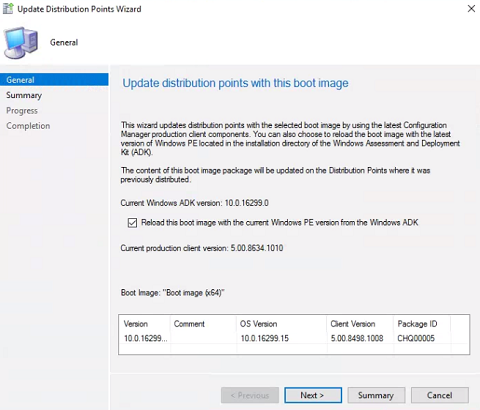
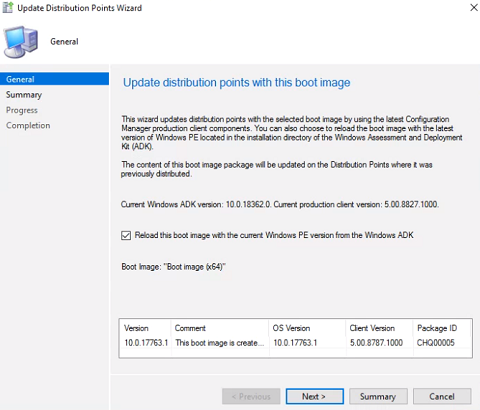
Updated blog through boot images section

diff --git a/_posts/2018-06-05-you-down-with-osd.md b/_posts/2018-06-05-you-down-with-osd.md
@@ -14,7 +14,7 @@ In this post we'll do a minimalistic configuration of OSD over PXE.  This means 
 [Windows and Office Deployment Lab Kit](https://www.microsoft.com/en-us/evalcenter/evaluate-lab-kit) does a couple convenient configurations if we're using the Current Branch lab we configured in the [previous post](https://doug.seiler.us/2018-05-30-set-up-the-sccm-lab/).  If we're using the [tech preview lab](https://doug.seiler.us/2019-05-27-tech-preview-lab-kit/) we will need to do some additional set up.
 
 ### The Requirements
-1. A Windows 10 Enterprise ISO.
+1. A Windows 10 Enterprise 64-bit ISO.
 
 2. The latest [Windows Assessment and Deployment Kit](https://docs.microsoft.com/en-us/windows-hardware/get-started/adk-install) and the Windows PE add-on for the ADK.
 
@@ -114,7 +114,9 @@ In SCCM, distribution points are where workstations get their content.  This is 
 
 	![dp_general_tab.png](/img/300/dp_general_tab.png)
 5. **PXE tab** - To automatically install WDS and configure PXE, check _Enable PXE support for clients_ and click _Yes_ when the _Review Required Ports for PXE_ warning dialog pops up.  
+	
 	Additionally check _Allow this distribution point to respond to incoming PXE requests_ **AND** _Enable unknown computer support_, click _OK_ when the _Configuration Manager_ dialog box pops up.  
+	
 	Uncheck _Require a password when computers use PXE_.  Click _OK_.
 
 	![dp_pxe_tab.png](/img/300/dp_pxe_tab.png)
@@ -129,64 +131,75 @@ We'll use [Odd-Magne's script](https://sccmguru.wordpress.com/2012/10/25/configu
 
 	<script src="https://gist.github.com/dugmo/150e1015ed989286b5a4480a5e3ba87b.js"></script>
 
+	![package_source_script.png](/img/300/package_source_script.png)
+
+
 ### The Operating System Image
 We need an operating system image as the basis of OSD.  There are several guides on creating a fully patched reference image, but we're just going to use the WIM file off of the ISO for now and revisit reference images in a later tutorial.
-1. On the host system, mount the Windows 10 Enterprise (or Pro) ISO.  If your host system is Windows 10 you can just double click the ISO.
+1. On the host system, mount the Windows 10 Enterprise ISO.  If your host system is Windows 10 you can just double click the ISO.
 
-2. Navigate to the sources folder, right-click _install.wim_ and select _copy_.
+2. Right-click the drive letter of the mounted ISO, and select _Properties_.
+
+	![mounted_iso_properties.png](/img/300/mounted_iso_properties.png)
+3. **Sharing tab** - Click _Advanced Sharing_.  Check _Share this folder_ and note the _Share name_.  Click _OK_.  Click _Close_.
+
+	![mounted_iso_sharing.png](/img/300/mounted_iso_sharing.png)	
+4. On _HYD-CM1_ (the SCCM server) navigate to **\\\\\<host system name>\\\<share name>\\sources**.  Right-click _install.wim_ and select _copy_.
 
 	![install_wim.png](/img/300/install_wim.png)
-3. On HYD-CM1 (the SCCM server) navigate to _C:\PackageSource\OSD\OSImages_
-
-4. Paste the _install.wim_ to this folder.  Hyper-V will let you copy and paste files directly between host and VM.
+5. Navigate to _C:\PackageSource\OSD\OSImages_ and paste the _install.wim_ to this folder.
 
 	![install_wim_on_sccm.png](/img/300/install_wim_on_sccm.png)
-5. From the SCCM console expand the _Software Library_ -> _Operating Systems_ node.
+6. From the SCCM console expand the _Software Library_ -> _Operating Systems_ node.
 
-6. Right-click _Operating System Images_ and select _Add Operating System Image_.
+7. Right-click _Operating System Images_ and select _Add Operating System Image_.
 
-7. **Data Source** - In the path field type **\\\cm1\PackageSource\OSD\OSImages\install.wim** and click _Next_.
+8. **Data Source** - In the path field type **\\\cm1\PackageSource\OSD\OSImages\install.wim**.  Check _Extract a specific image index from the specified WIM file_ and select image index _3 - Windows 10 Enterprise_.
+If we're using the Tech Preview, select _x64_ and click _Next_.
 
-8. **General** - Leave the default name, but type the Windows 10 build in the _Version_ field.  Click _Next_.
+	![os_image_datasource.png](/img/300/os_image_datasource.png)
+9. **General** - Set the name to **Windows 10 Enterprise**. Type the Windows 10 build in the _Version_ field.  Optionally we can add a comment.  Click _Next_.
 
 	![os_image_wizard.png](/img/300/os_image_wizard.png)
-9. At the _Summary_ screen, click _Next_.  At the _Completion_ screen, click _Close_.
+10. At the _Summary_ screen, click _Next_.  At the _Completion_ screen, click _Close_.
 
-10. Right-click the OS image we just created and select _Distribute Content_.  At the _General_ screen click Next.
+11. Right-click the OS image we just created and select _Distribute Content_.  At the _General_ screen click Next.
 
-11. **Content Destination** - Click _Add_ -> _Distribution Point_, and check _CM1.CORP.CONTOSO.COM_.  Click _OK_, then click _Next_.
+12. **Content Destination** - Click _Add_ -> _Distribution Point_, and check _CM1.CORP.CONTOSO.COM_.  Click _OK_, then click _Next_.
 
 	![os_image_distribute_content.png](/img/300/os_image_distribute_content.png)
 	![os_image_distribute_content2.png](/img/300/os_image_distribute_content2.png)
-12. At the _Summary_ screen, click _Next_.  At the _Completion_ screen, click _Close_.
+13. At the _Summary_ screen, click _Next_.  At the _Completion_ screen, click _Close_.
 
 ### The Boot Image
 SCCM requires a WinPE image to initiate the task sequence.  This is a low level Windows OS that runs in the beginning of a task sequence when we PXE boot.
 1. From the SCCM console, expand the _Software Library_ -> _Operating Systems_ node.
 
-2. Click on _Boot Images_.  Right click _Boot image (x64)_ and select _Properties_.
+2. Click on _Boot Images_.  If we're using the [Tech Preview lab](https://doug.seiler.us/2019-05-27-tech-preview-lab-kit/), right-click the boot image and select _Distribute Content_. Just like with the OS image, at the _Content Destination_ wizard click _Add_ and select _Distribution Point_.  Check CM1.CORP.CONTOSO.COM and click _OK_.  Click _Next_.  At the _Summary_ screen click _Next_. At the _Completion_ screen click _Close_.
 
-3. **Customization tab** - Check _Enable command suppport (testing only)_.  This allows us to press F8 during the task sequence to bring up the command prompt, which is useful for troubleshooting.
-
-	![boot_image_customization.png](/img/300/boot_image_customization.png)
-    
-4. **Data Source tab** - Confirm that _Deploy this boot image from the PXE-enabled distribution point_ is already checked.  Click _OK_.
+	If we're using the [Current Branch lab](https://doug.seiler.us/2018-05-30-set-up-the-sccm-lab/) the boot images are already distributed. Right-click _Boot image (x64)_ and select _Update Distribution Points_.  
 	
-	![boot_image_confirm_pxe.PNG](/img/300/boot_image_confirm_pxe.PNG)
-5. We'll be prompted to update the distribution points.  Click _Yes_, and the _Update Distribution Points Wizard_ will launch.
-
-	![boot_image_update_distribution_points.png](/img/300/boot_image_update_distribution_points.png)
-5. At the _General_ screen, check _Reload this boot image with the current Windows PE version from the Windows ADK_.  Click _Next_.
+	Check _Reload this boot image with the current Windows PE version from the Windows ADK_.  Click _Next_.  At the _Summary_ screen click _Next_.  At the _Completion_ screen click _Close_.
 
 	![boot_image_update_wizard.PNG](/img/300/boot_image_update_wizard.PNG)
-6. At the _Summary_ screen click Next.  At the _Completion_ screen click _Close_.
-
-7. We can now see _Boot image (x64)_ has a higher _OS Version_ but the _Version_ needs to be updated.
-
-	![boot_image_upgraded.png](/img/300/boot_image_upgraded.png)
-8. Right-click _Boot image (x64)_ and select _Properties_.  Change the _Version_ to match the _OS Version_.
+4. **General tab** - Right-click _Boot image (x64)_ and select _Properties_.  Set the _Version_ to the ADK _OS Version_.
 
 	![boot_image_version.PNG](/img/300/boot_image_version.PNG)
+5. **Customization tab** - Check _Enable command suppport (testing only)_.  This allows us to press F8 during the task sequence to bring up the command prompt, which is useful for troubleshooting.
+
+	![boot_image_customization.png](/img/300/boot_image_customization.png)
+6. **Data Source tab** - Confirm that _Deploy this boot image from the PXE-enabled distribution point_ is already checked.  If we're using the Tech Preview lab, select _x64_.  Click _OK_.
+	
+	![boot_image_confirm_pxe.PNG](/img/300/boot_image_confirm_pxe.PNG)
+7. We'll be prompted to update the distribution points.  Click _Yes_, and the _Update Distribution Points Wizard_ will launch.
+
+	![boot_image_update_distribution_points.png](/img/300/boot_image_update_distribution_points.png)
+
+8. When the wizard launches, click _Next_.  At the _Summary_ screen click _Next_ again.  At the _Completion_ screen click _Close_.
+
+9. Repeat steps 2-8 with _Boot image (x86)_.
+
+
 #### Optionally Ricky Gao's guide creates a new _Configuration Manager Client_ package.  We will skip for our lab.
 
 
